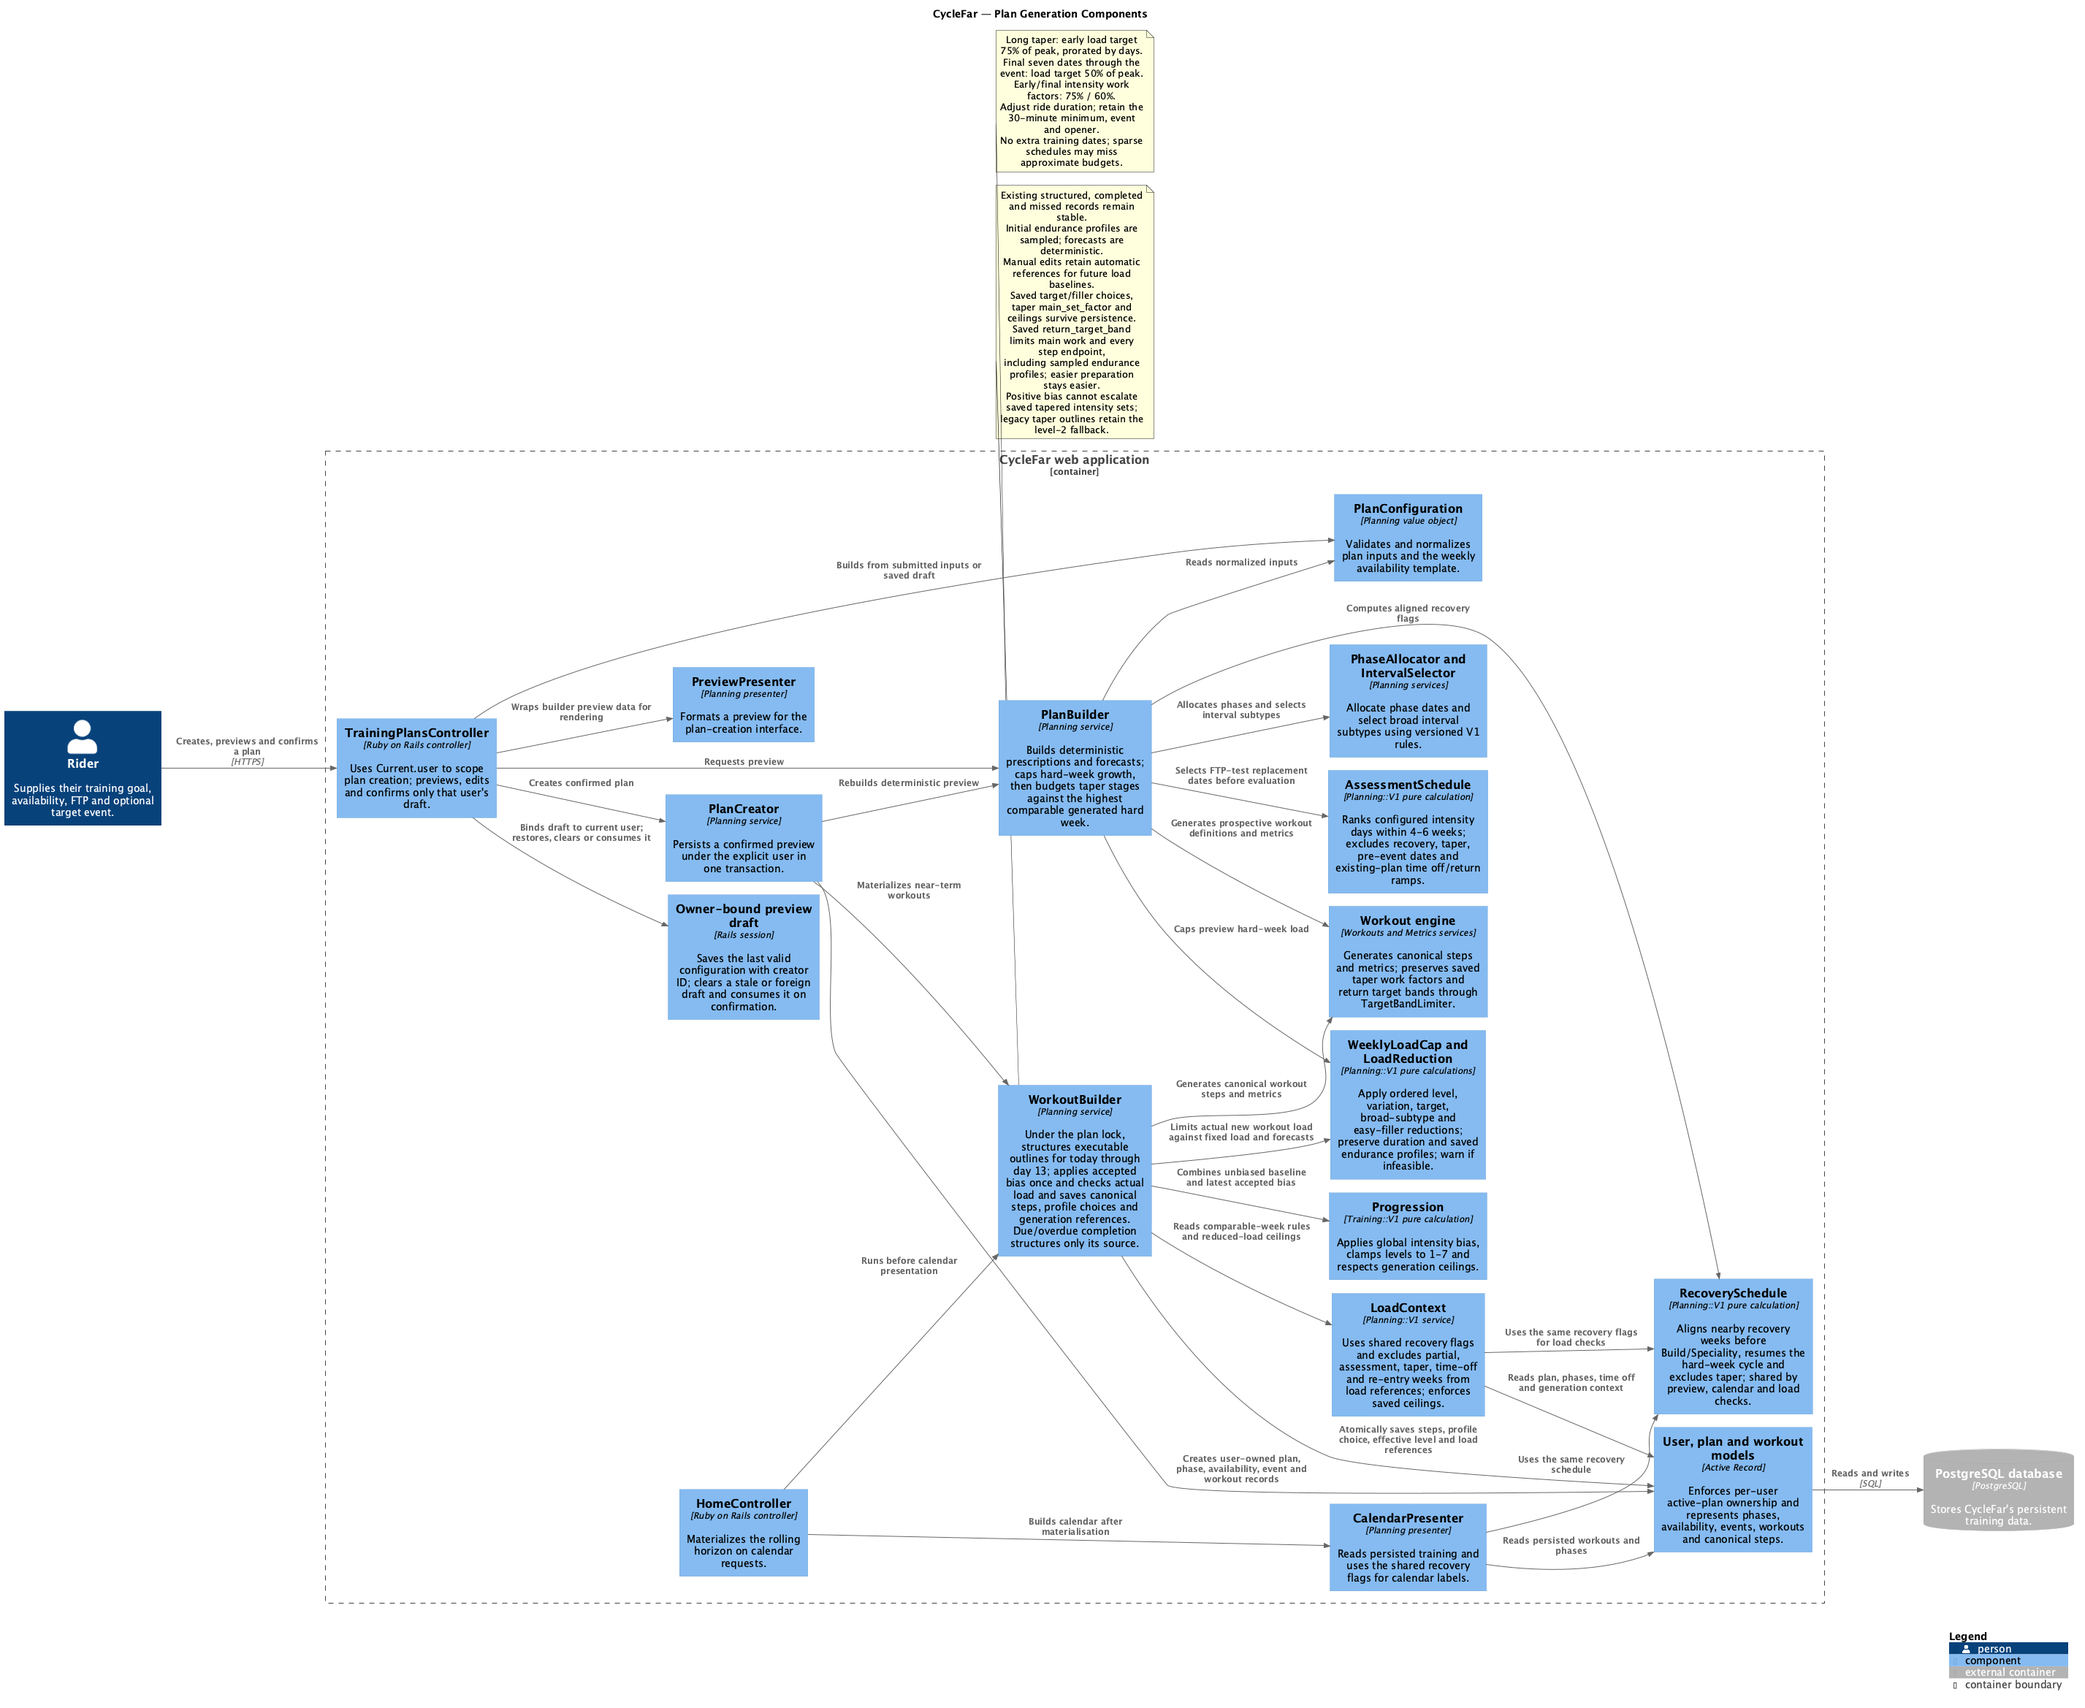
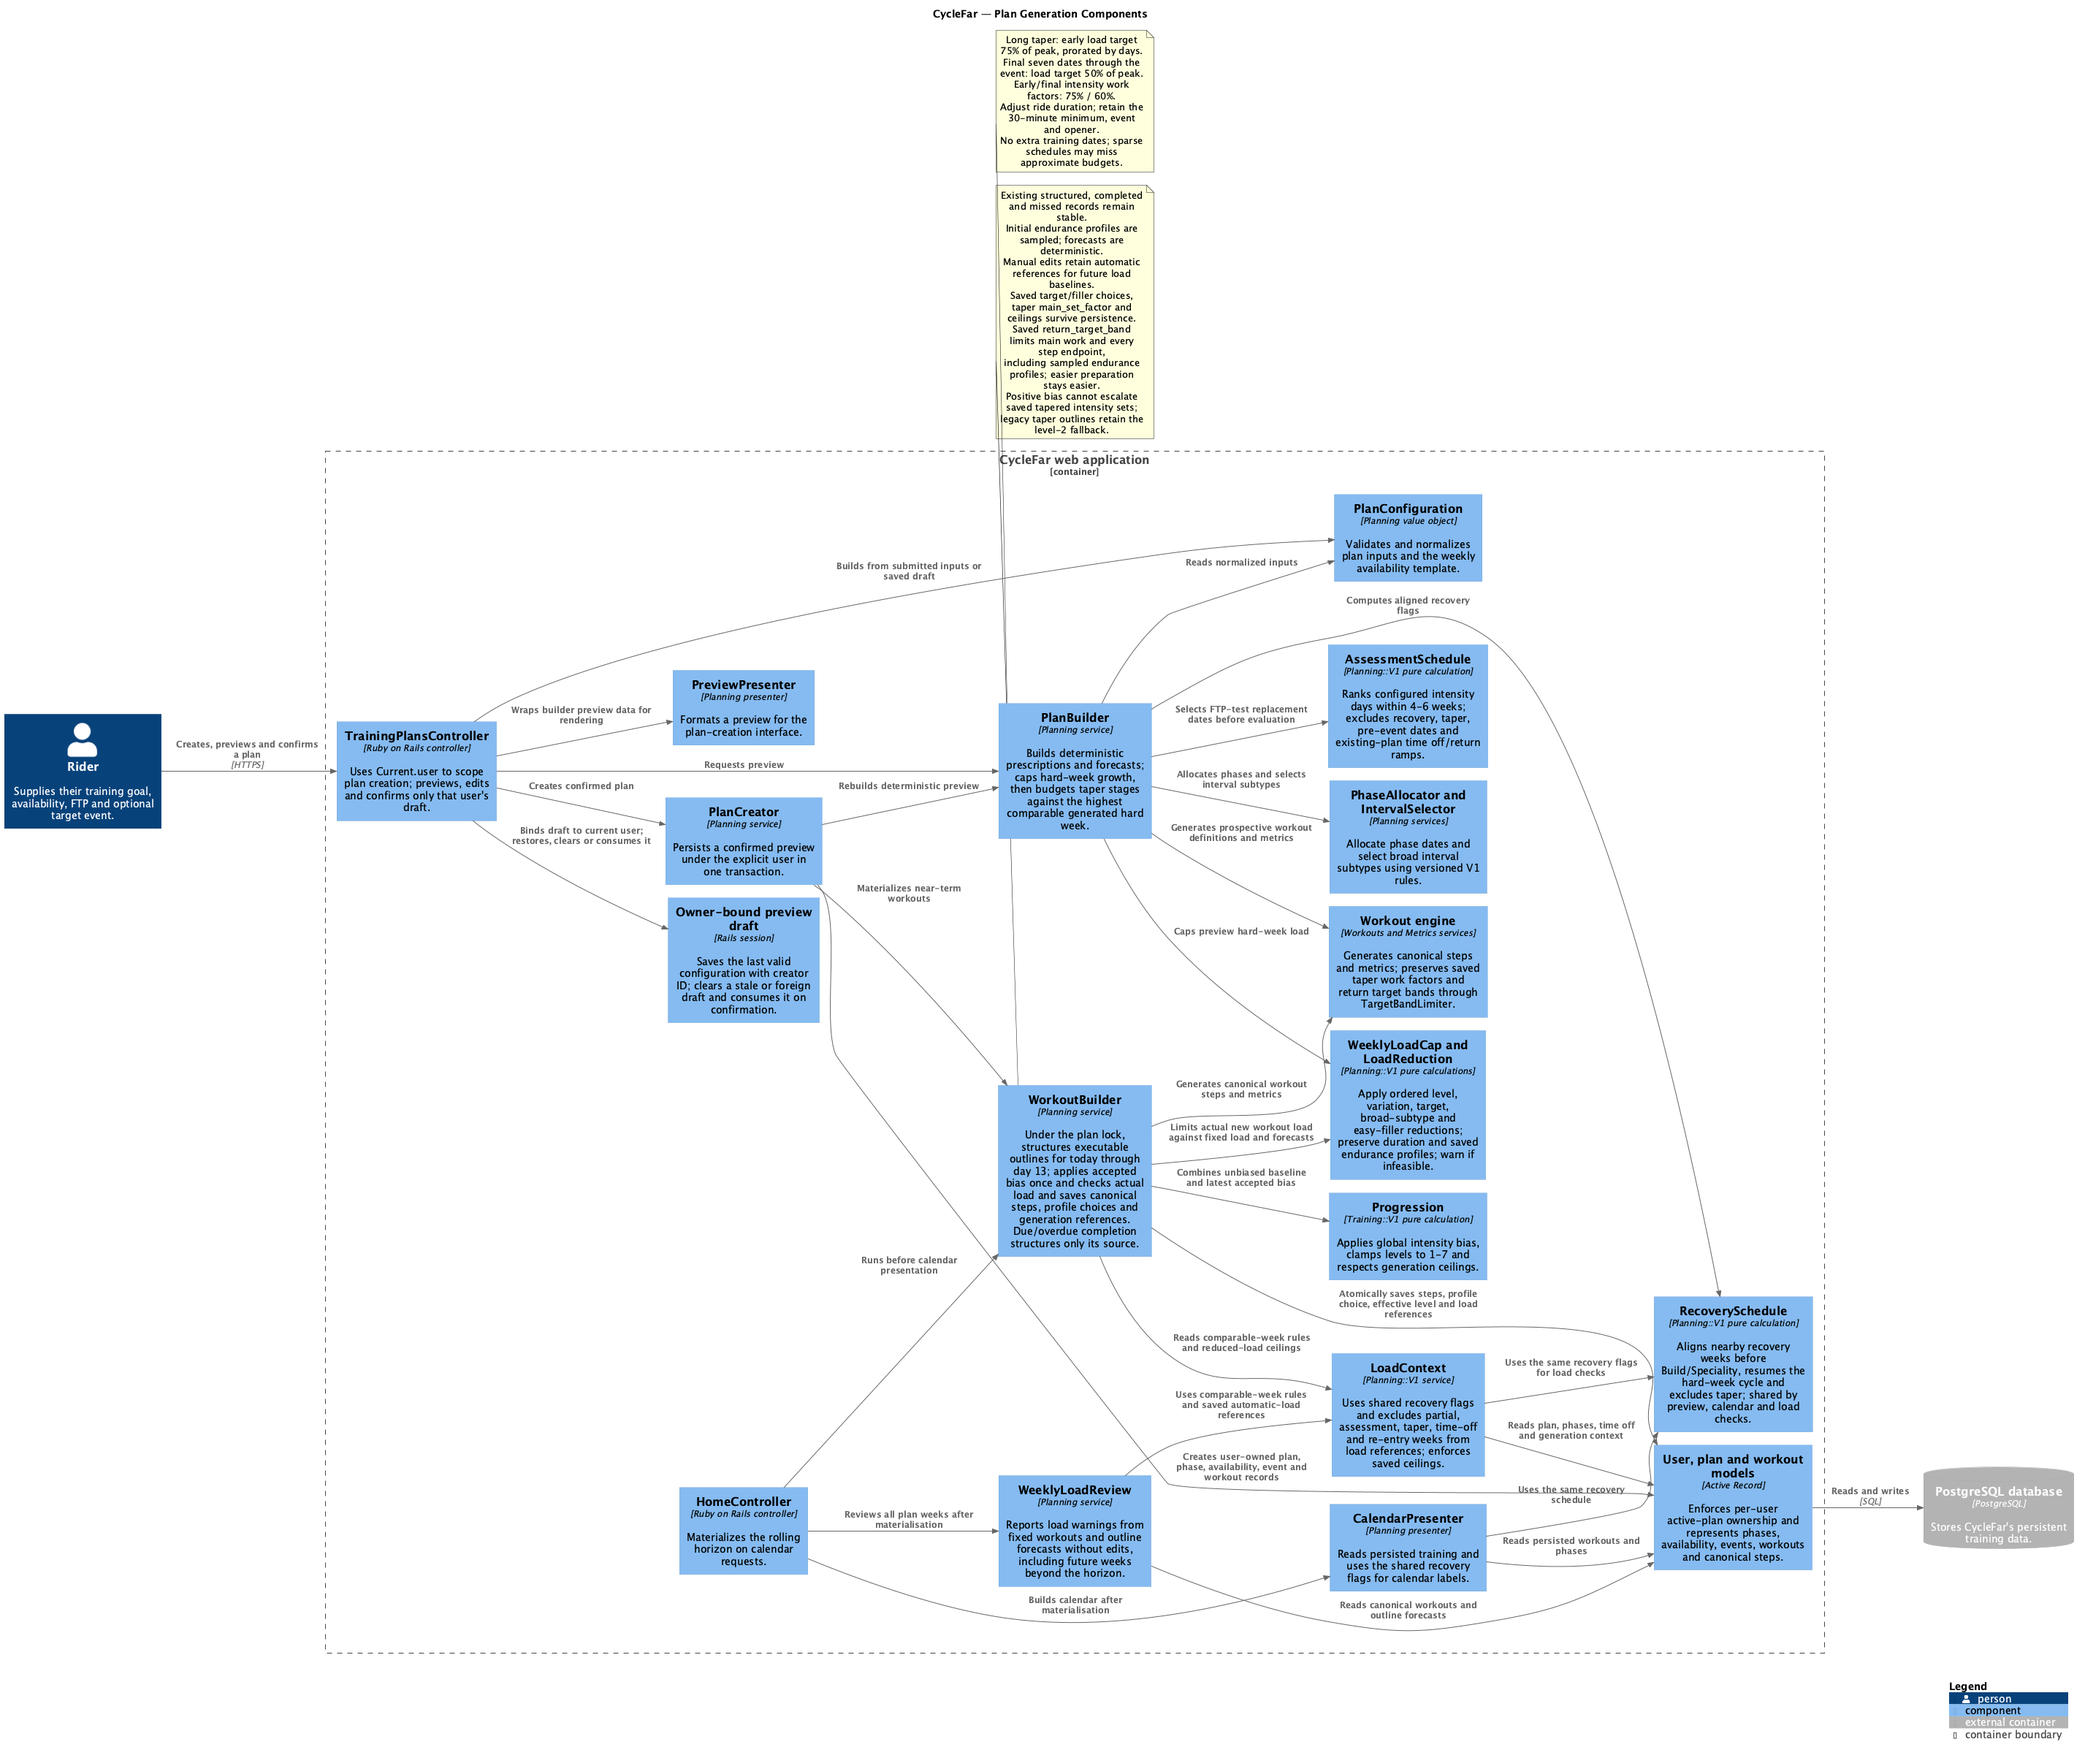
Updated diagrams

diff --git a/docs/diagrams/README.md b/docs/diagrams/README.md
@@ -1,6 +1,6 @@
 # CycleFar architecture diagrams
 
-These diagrams describe the implemented application, including owner-scoped requests and sync, account access, preview isolation, feedback comparisons, accepted progression bias and optional material-change replanning. The views reflect changes through CYF-14 and were reviewed on 2026-10-04, including shared recovery scheduling, ranked FTP assessments, staged taper budgets, return-stage power limits, canonical calendar summaries and complete tracked-event reconciliation. They do not certify all V1 requirements; outstanding behaviour is tracked in Jira.
+These diagrams describe the implemented application, including owner-scoped requests and sync, account access, preview isolation, feedback comparisons, accepted progression bias and optional material-change replanning. All eleven views were reviewed against the current controllers, services, routes, configuration and SQL schema on 2026-10-06. They include shared recovery scheduling, ranked FTP assessments, staged taper budgets, return-stage power limits, canonical calendar summaries and complete tracked-event reconciliation through CYF-14, plus current account access and deployment boundaries. They do not certify all V1 requirements; outstanding behaviour is tracked in Jira.
 
 | View (PlantUML source) | PNG | Scope |
 | --- | --- | --- |
@@ -39,6 +39,10 @@ AWS Terraform/CloudFormation templates are separate infrastructure preparation. 
 
 Ordinary and missed Move share `Workouts::Mover` and `DestinationValidator`. Eligible same-context moves of at most seven days keep their structure; other moves regenerate from destination progression, retaining subtype and duration. Destination exclusions and weekly load warnings apply to both paths. Openers record immutable completion feedback without progression adaptation; late regular-workout feedback is suppressed only when the next scheduled workout is completed.
 
+`WeeklyLoadReview` runs after horizon materialisation on calendar requests and checks destination load after a move. It reads fixed canonical workouts and outline forecasts without changing them, so warnings can cover future weeks beyond the detail horizon. Add/Copy and both Move paths share `DestinationValidator` under the plan lock.
+
+Availability changes use the submitted slots throughout the affected one-week or from-date range. Time-off and material-change replans choose the effective availability template per date; missed-workout replanning uses today's effective template for the whole bounded block. `ExistingPlanConfiguration` uses the plan's initial FTP for preview forecasts; actual materialisation and return-workout recalculation use the owner's current FTP. Manual sync selects existing structured detail, without materialising outlines; the controller selects the active plan while `SyncNextTwo` validates profile ownership and the API key.
+
 `WeeklyLoadCap` and `LoadReduction` enforce the ordered section 27 strategy during previews, actual materialisation and feedback comparisons/acceptance: progression level, lower-load variation, work targets within existing bands, compatible subtype reduction for broad Intervals, then valid short main sets plus easy filler. Normal duration, specific subtype intent and sampled endurance profile identity remain fixed. Generation choices survive outline persistence; infeasible schedules show a non-blocking warning after valid options are exhausted. Partial, recovery, taper, assessment, time-off and re-entry weeks do not become comparable hard-week references. Manual one-off overrides retain separate automatic-load references.
 
 `RecoverySchedule` supplies the same flags to `PlanBuilder`, `CalendarPresenter` and `LoadContext`. A recovery within one week of a Build/Speciality transition can align to the preceding complete Monday–Sunday week; at least one hard week separates recoveries and the cycle resumes from the aligned week. Taper weeks are excluded; continuous progression adds no scheduled recoveries.
@@ -75,4 +79,4 @@ PlantUML resolves this relative output directory beside each source, producing `
 
 When updating a view, compare it with the named controllers/services, routes and persistence schema. Check relationship endpoints, render the sources and inspect the resulting images. Keep implementation limits in diagram notes and this guide aligned with [ARCHITECTURE.md](../ARCHITECTURE.md), especially after proposal, move, completion or horizon changes.
 
-Validation on 2026-10-04 rendered all eleven views to PNG and temporary SVG with PlantUML 1.2026.8, the previously downloaded C4 includes and the built-in Smetana layout engine. The exports were checked for rendering errors and visually reviewed; source/PNG links were checked.
+Validation on 2026-10-06 ran `generate-pngs.sh` with PlantUML 1.2026.8 and the built-in Smetana layout engine. All eleven sources passed the script's pre-render checks and were exported to PNG. The exports were visually reviewed, source/PNG links were checked, and the PNG chunks were checked for the absence of embedded PlantUML source metadata.
